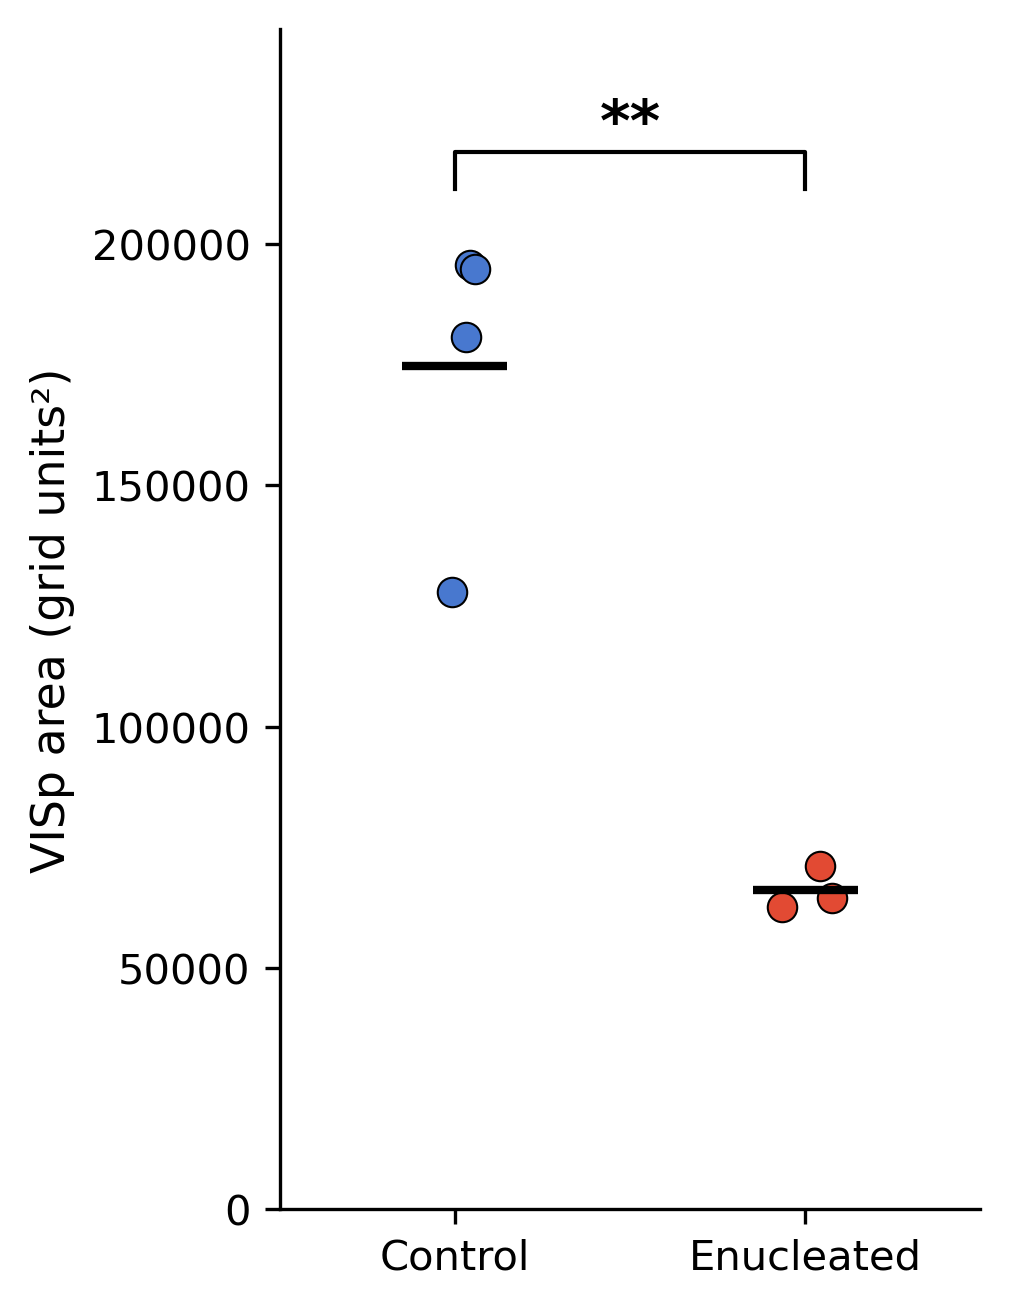
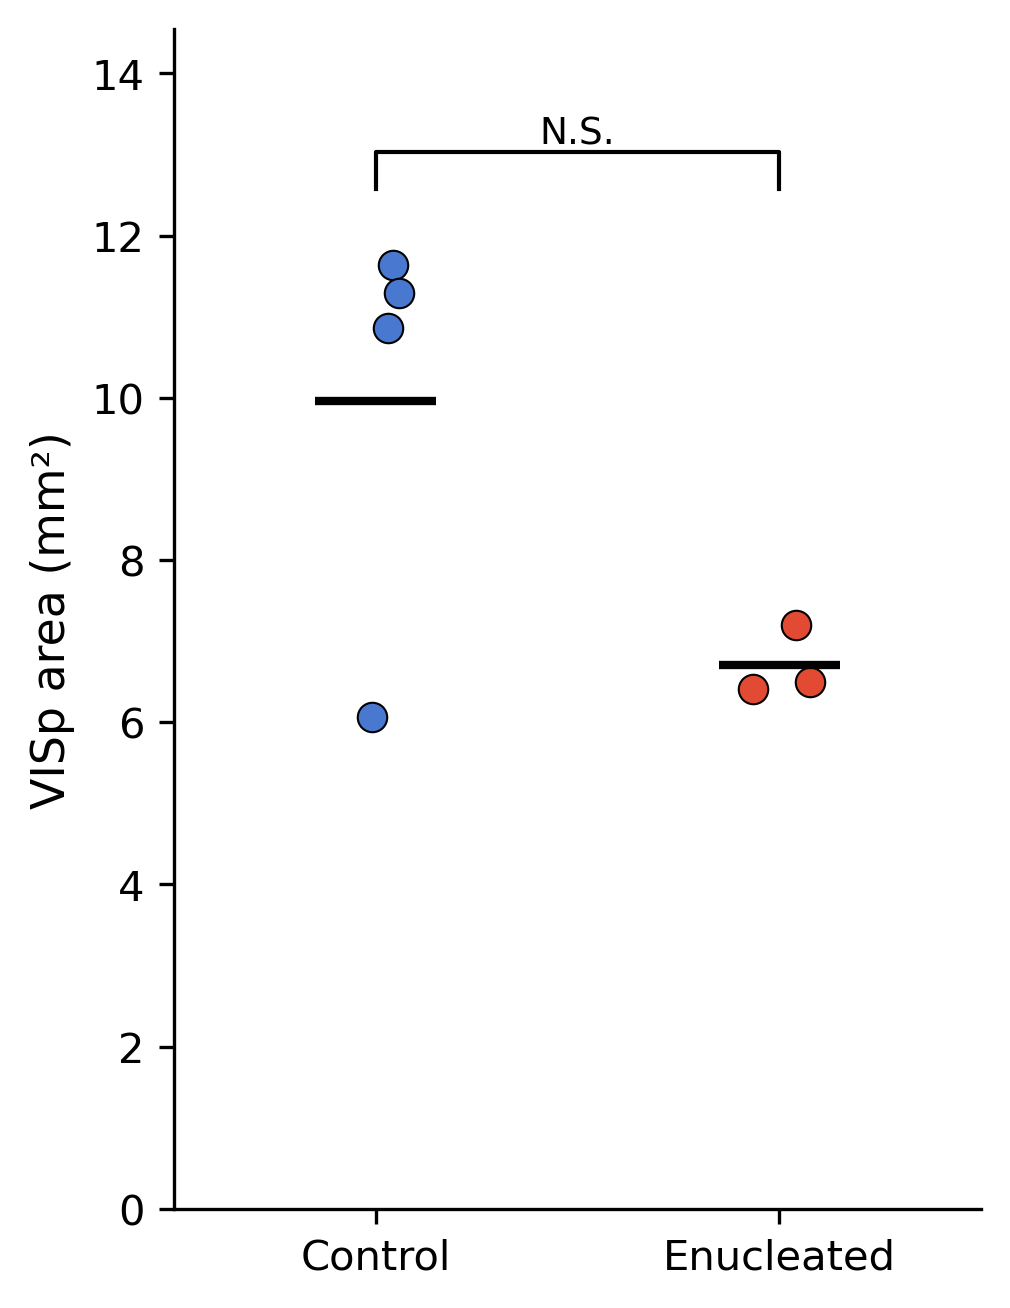
Update configs, scripts, and figures for covid and brain_annotation
Update covid benchmark configs, attention analysis, and training defaults.
Update brain_annotation benchmark script and paper figures.
Remove unused dataset_summary.pptx.

diff --git a/applications/covid/benchmarks.py b/applications/covid/benchmarks.py
@@ -49,7 +49,7 @@ def setup_wandb(cfg: DictConfig):
         entity=cfg.wandb.entity,
         name=f"benchmark_{cfg.wandb.name}",
         group=cfg.wandb.group,
-        tags=cfg.wandb.tags + ["benchmark"],
+        tags=cfg.wandb.tags + ["benchmark", "balanced"],
         notes=cfg.wandb.notes,
         config=OmegaConf.to_container(cfg, resolve=True),
     )
@@ -517,6 +517,7 @@ def run_dl_benchmark(
     and reports both group-level and donor-aggregated metrics.
     """
     from torch.utils.data import DataLoader
+    from tissueformer.class_weights import calculate_class_weights
     from tissueformer.benchmark_models.data import (
         MILDataset, CroppedMILDataset, mil_collate_fn,
         load_covid_mil_data, preprocess_zscore, preprocess_cp10k_log1p,
@@ -571,6 +572,11 @@ def run_dl_benchmark(
     )
     train_idx = actual_train_idx
     print(f"  Donor split: {len(train_idx)} train, {len(val_idx)} val, {len(test_idx)} test")
+
+    # Compute class weights from training labels for balanced loss
+    train_labels = labels[train_idx]
+    cw = calculate_class_weights(train_labels, method="balanced")
+    class_weights_tensor = torch.tensor(cw, dtype=torch.float32).to(device)
 
     # Apply preprocessing (sparse-aware to avoid OOM on large datasets)
     preprocess = model_cfg.get("preprocess", "raw")
@@ -738,10 +744,12 @@ def run_dl_benchmark(
             weight_decay=model_cfg.l2_reg,
         )
         l1_fn = lambda: model.l1_loss(model_cfg.l1_reg)
+        loss_fn = torch.nn.CrossEntropyLoss(weight=class_weights_tensor)
         trainer = BenchmarkTrainer(
             model=model, optimizer=optimizer,
             train_loader=train_loader, val_loader=val_loader,
             device=device, n_epochs=model_cfg.n_epochs,
+            loss_fn=loss_fn,
             early_stopping_patience=model_cfg.early_stopping_patience,
             l1_loss_fn=l1_fn, model_name=model_name,
             n_classes=n_classes,
@@ -760,6 +768,7 @@ def run_dl_benchmark(
             weight_decay=model_cfg.weight_decay,
         )
         loss_fn = torch.nn.CrossEntropyLoss(
+            weight=class_weights_tensor,
             reduction=model_cfg.loss_reduction,
         )
         trainer = BenchmarkTrainer(
@@ -789,10 +798,12 @@ def run_dl_benchmark(
             num_warmup_steps=model_cfg.lr_warmup_epochs,
             num_training_steps=model_cfg.n_epochs,
         )
+        loss_fn = torch.nn.BCEWithLogitsLoss(pos_weight=class_weights_tensor)
         trainer = BenchmarkTrainer(
             model=model, optimizer=optimizer,
             train_loader=train_loader, val_loader=val_loader,
             device=device, n_epochs=model_cfg.n_epochs,
+            loss_fn=loss_fn,
             early_stopping_patience=model_cfg.early_stopping_patience,
             early_stopping_start_epoch=model_cfg.early_stopping_start_epoch,
             scheduler=scheduler, model_name=model_name,

diff --git a/applications/covid/analyze_attention.py b/applications/covid/analyze_attention.py
@@ -5,6 +5,9 @@ generates figures showing which cell types receive the most attention.
 
 Usage:
     python analyze_attention.py model_checkpoint_path=/path/to/model
+
+e.g.
+python analyze_attention.py model_checkpoint_path=/home/benjami/mnt/zador_data_norepl/Ari/transcriptomics/checkpoints/covid/combat/2026-03-09/19-16-15/model training.output_dir=figures data.group_size=16 attention_analysis.max_groups=10000
 """
 
 import os
